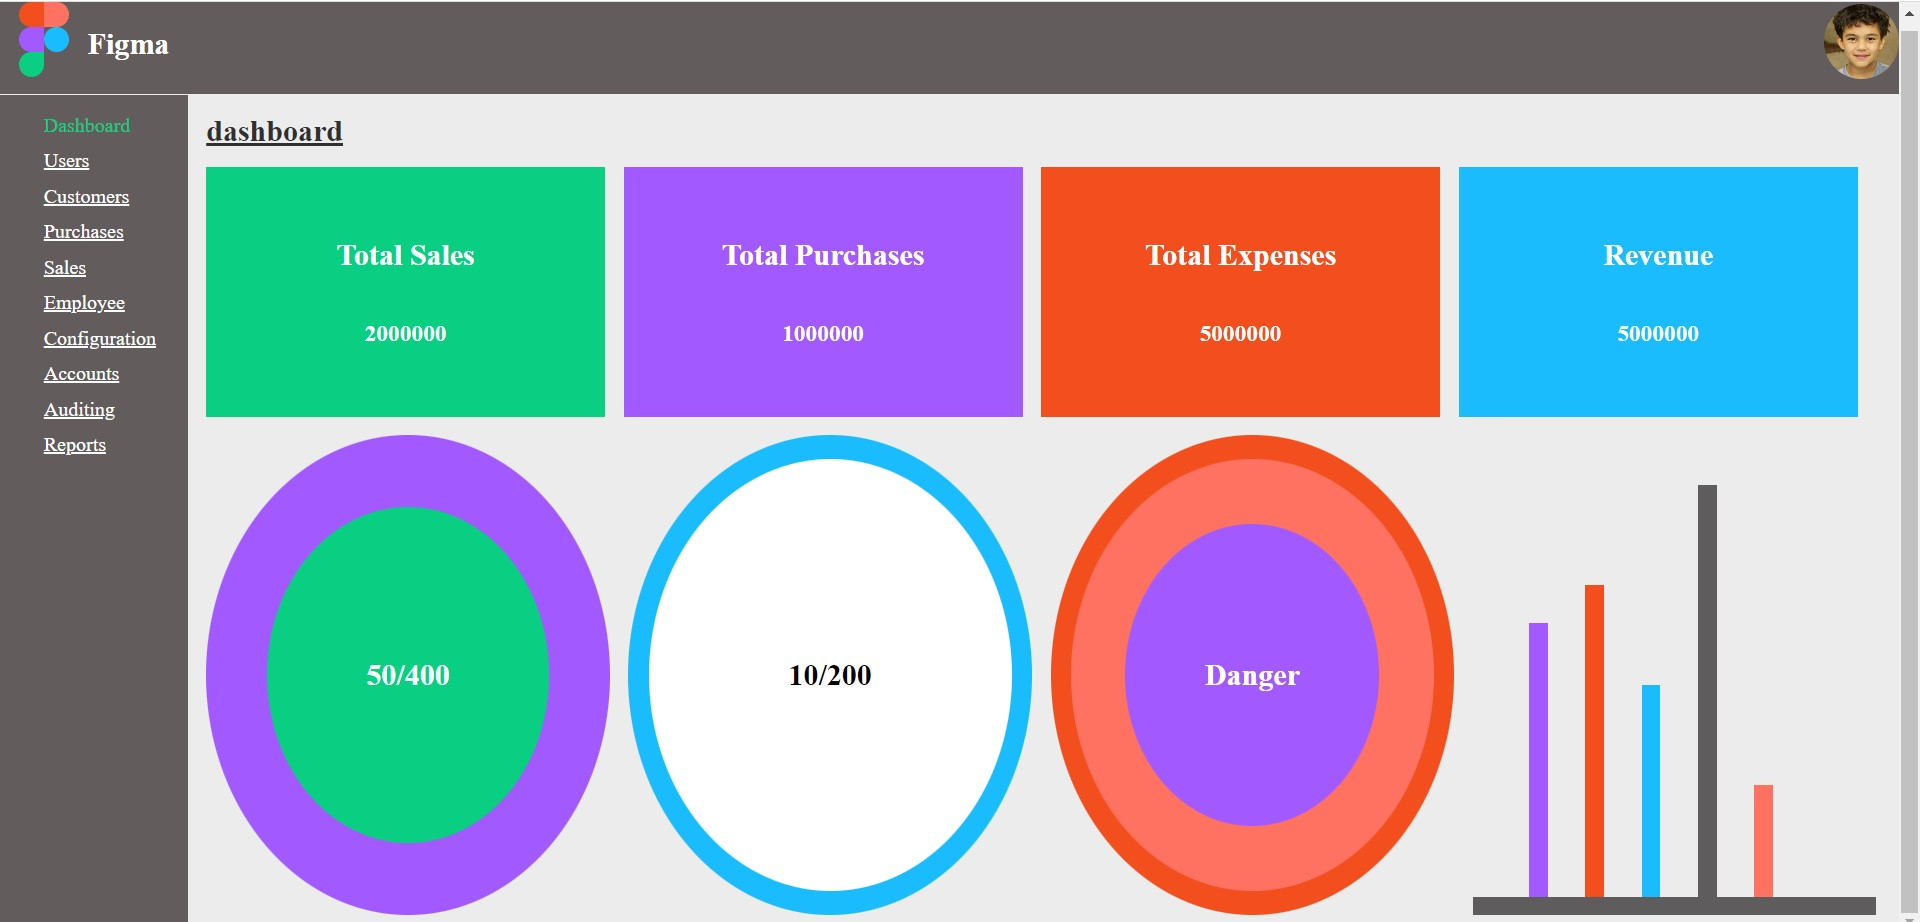
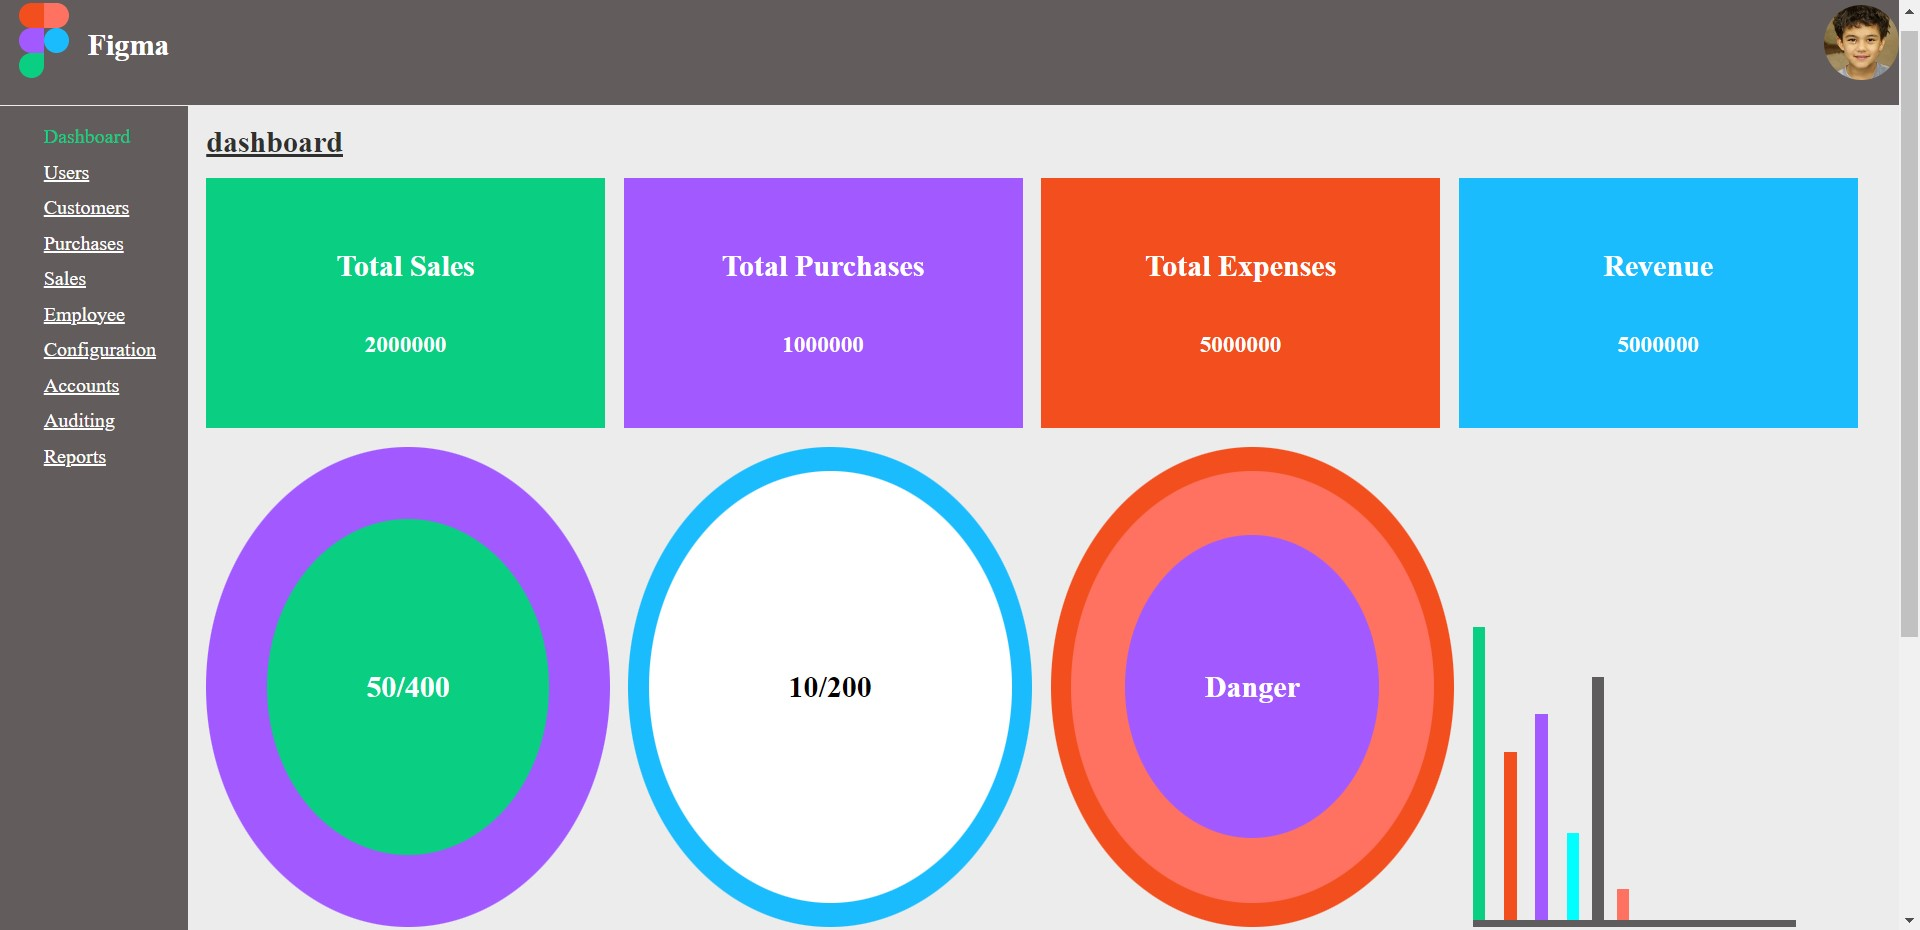
commiting coding-task

diff --git a/task-4/css/style.css b/task-4/css/style.css
@@ -4,7 +4,7 @@ body {
 }
 #navbar {
   background-color: #625c5c;
-  height: 80px;
+  height: 100%;
   display: flex;
   align-items: center;
   justify-content: space-between;
@@ -39,7 +39,7 @@ body {
 }
 #sidebar {
   background-color: #625c5c;
-  height: 100%;
+  height: 150%;
   width: 150px;
   float: left;
 }
@@ -72,10 +72,12 @@ body {
 #tile-container {
   margin-bottom: 15px;
 }
-.tile{
+.tile {
   height: 200px;
 }
-.tile, .circle, .chart{
+.tile,
+.circle,
+.chart {
   width: calc((100%) / 4);
   display: flex;
   flex-direction: column;
@@ -90,7 +92,7 @@ body {
 .chart {
   height: calc((100vw -200px) / 4);
 }
-.circle{
+.circle {
   border-radius: 50%;
 }
 #tile-container > div,
@@ -143,7 +145,7 @@ body {
   align-items: center;
 }
 .bar {
-  width: 15px;
+  width: 10px;
   position: absolute;
 }
 .chart {
@@ -154,34 +156,36 @@ body {
   bottom: 0;
 }
 .one {
-  left: 0;
-  height: calc(100%- 45px);
+  left: 0px;
+  height: 240px;
+  background-color: #0ace82;
 }
 .two {
-  left: 45px;
-  height: calc(100% - 150px);
+  left: 25px;
+  height: 140px;
 }
 .three {
-  left: 90px;
-  height: calc(100% - 120px);
+  left: 50px;
+  height: 170px;
 }
 .four {
-  left: 135px;
-  height: calc(100% - 200px);
+  left: 75px;
+  height: 75px;
+  background-color: cyan;
 }
 .five {
-  left: 180px;
-  height: calc(100% - 40px);
+  left: 95px;
+  height: 200px;
   background-color: #5e5c5d;
 }
 .six {
-  left: 225px;
-  height: calc(100% - 280px);
+  left: 115px;
+  height: 30px;
   background-color: #ff7261;
 }
 .line {
-  width: 100%;
-  height: 15px;
+  width: 80%;
+  height: 5px;
   background-color: #5e5c5d;
   position: absolute;
 }

diff --git a/task-4/index.html b/task-4/index.html
@@ -72,9 +72,9 @@
           </div>
           <div class="chart">
             <div class="bar green-bg one"></div>
-            <div class="bar purple-bg two"></div>
-            <div class="bar red-bg three"></div>
-            <div class="bar blue-bg four"></div>
+            <div class="bar red-bg two"></div>
+            <div class="bar purple-bg three"></div>
+            <div class="bar cyan-bg four"></div>
             <div class="bar green-bg five"></div>
             <div class="bar red-bg six"></div>
             <div class="line"></div>
